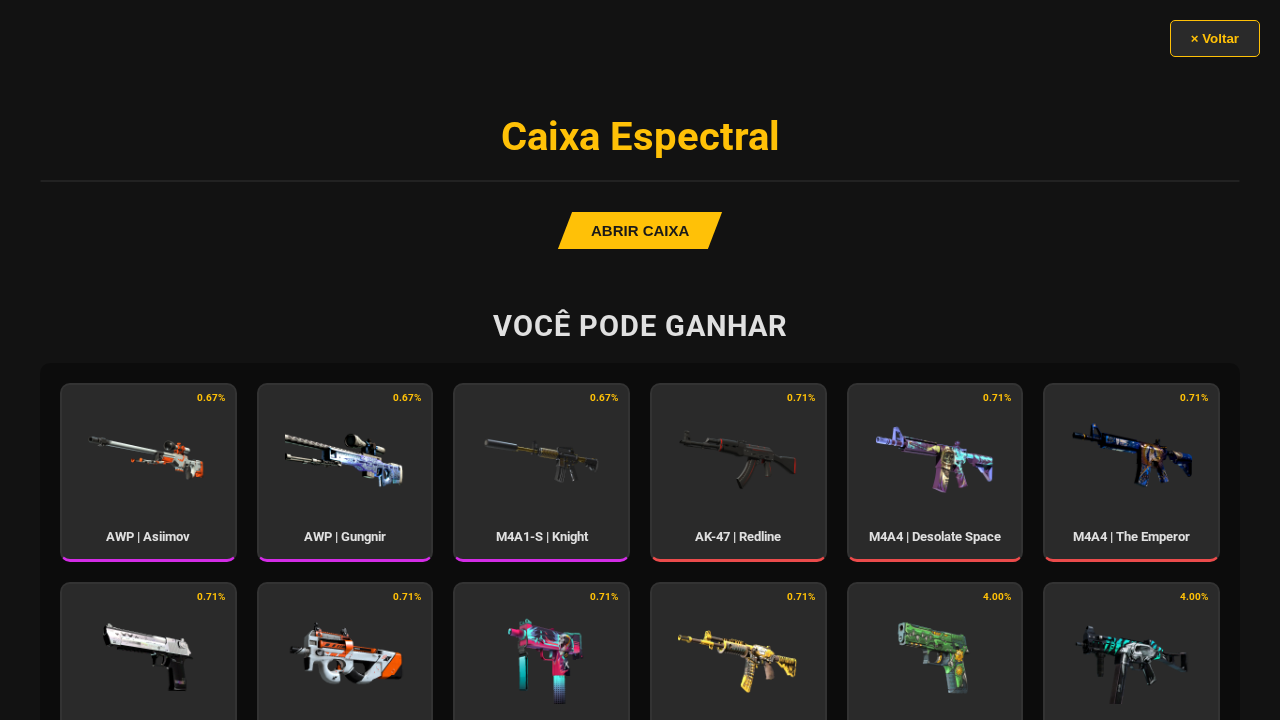
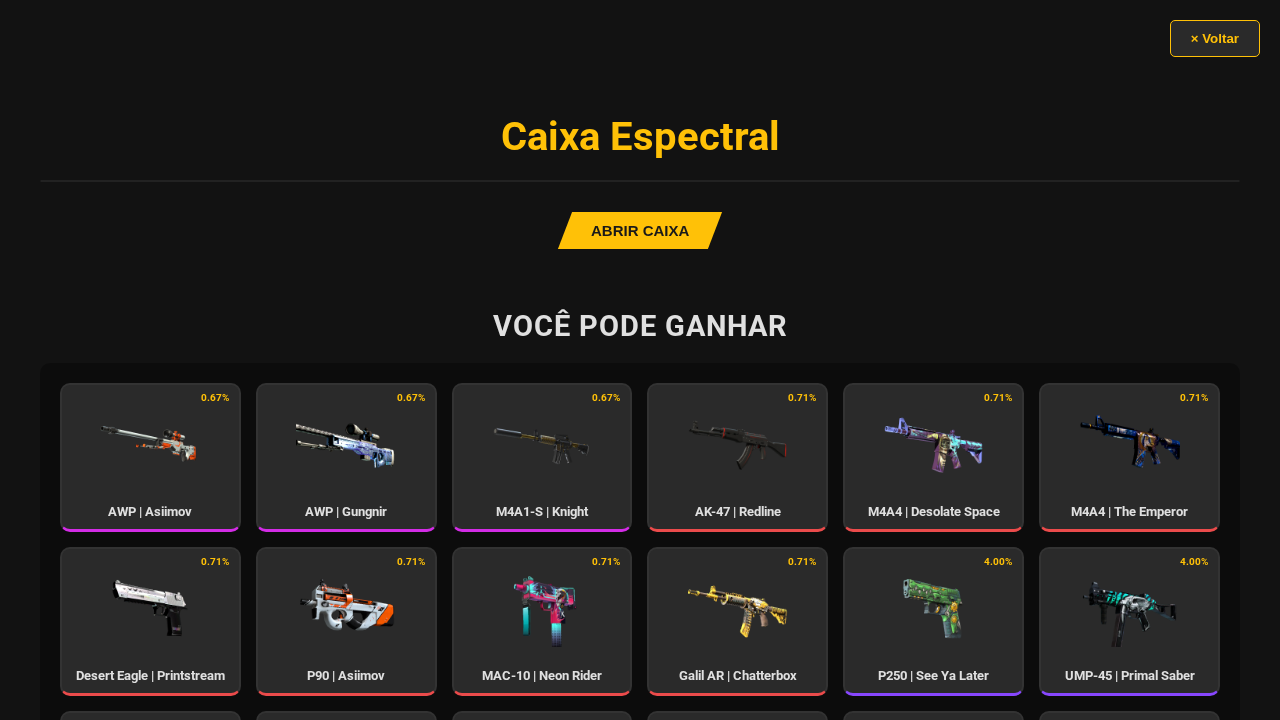
feat: Corrige estouro da roleta e redimensiona conteúdo da caixa
- Aumenta a altura do contêiner da roleta para acomodar o item vencedor ampliado, evitando que ele seja cortado.
- Ajusta o posicionamento vertical da roleta para garantir o alinhamento central.
- Reduz o tamanho dos itens na seção "Conteúdo da Caixa" para uma visualização mais compacta, diminuindo o tamanho das imagens, o preenchimento e o espaçamento da grade.

diff --git a/style.css b/style.css
@@ -229,7 +229,7 @@ main {
     position: relative;
     width: 100%;
     max-width: 1200px;
-    height: 190px;
+    height: 210px;
     overflow: hidden;
     border-radius: 10px;
     background: #111;
@@ -265,7 +265,7 @@ main {
 #roulette {
     display: flex;
     position: absolute;
-    top: 5px;
+    top: 12px;
     left: 0;
 }
 
@@ -488,7 +488,7 @@ main {
 #case-items-grid {
     display: grid;
     grid-template-columns: repeat(6, 1fr);
-    gap: 20px;
+    gap: 15px;
     padding: 20px;
     background-color: rgba(0, 0, 0, 0.3);
     border-radius: 10px;
@@ -500,7 +500,7 @@ main {
 .case-skin-item {
     background-color: #2a2a2a;
     border-radius: 10px;
-    padding: 15px;
+    padding: 10px;
     text-align: center;
     border: 2px solid #333;
     position: relative;
@@ -525,8 +525,8 @@ main {
 }
 
 .case-skin-item img {
-    width: 120px;
-    height: 120px;
+    width: 100px;
+    height: 100px;
     object-fit: contain;
 }
 
